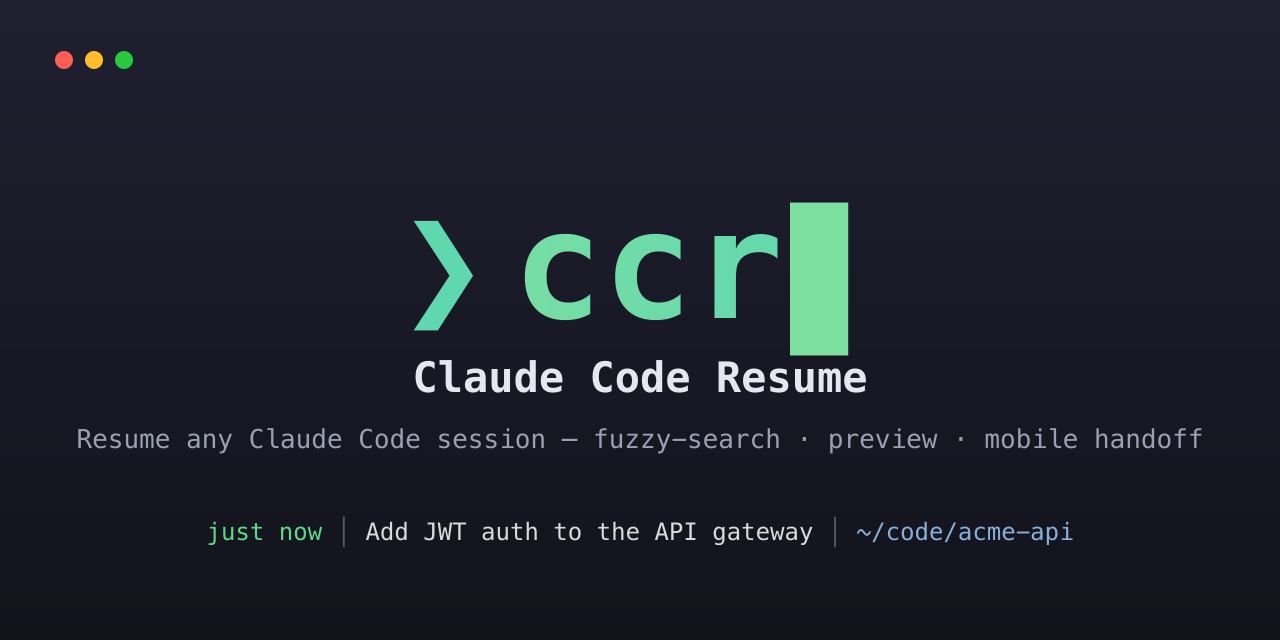
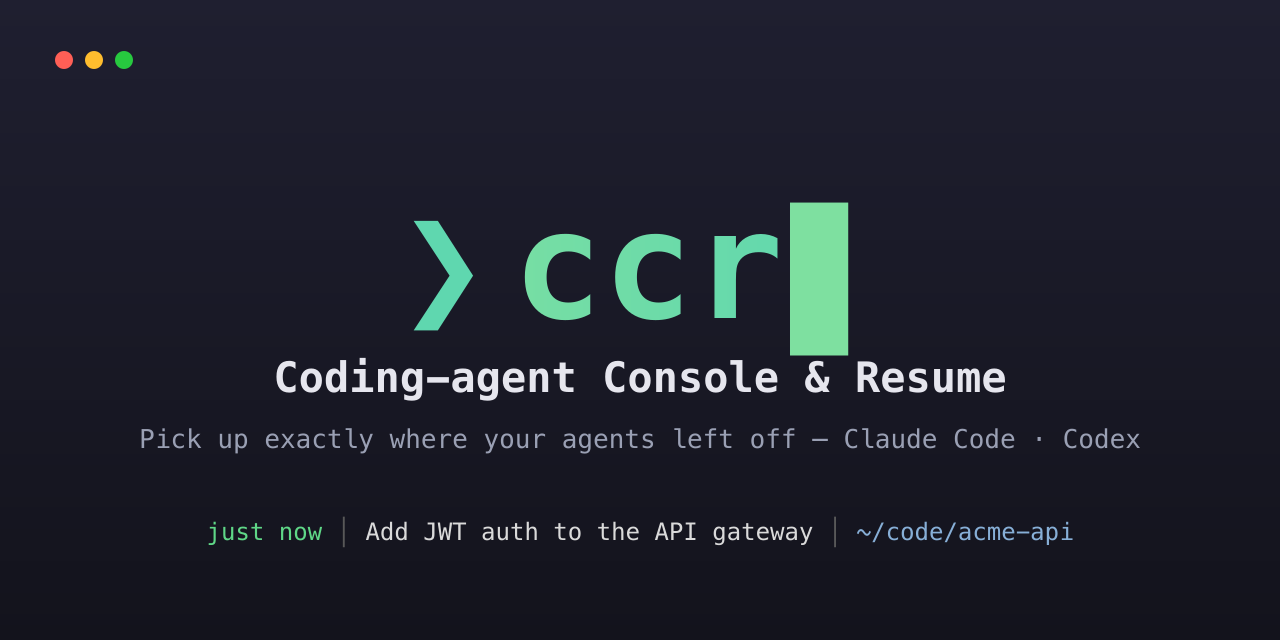
docs: rebrand as CCR — Coding-agent Console & Resume
New tagline "Pick up exactly where your agents left off.", a Why CCR
section (workspace view, session retention, one list for every surface,
session output, theme picker) in both READMEs, refreshed banner and social
preview, and links pointing at the renamed repo coding-agent-console.

Changed region(s): [[0.0625, 0.6562, 0.9375, 0.7188], [0.2188, 0.5625, 0.7812, 0.625]]

diff --git a/README.md b/README.md
@@ -1,10 +1,12 @@
 <p align="center">
-  <img src="assets/banner.svg" width="860" alt="ccr / ccc — Claude Code Resume, with Codex">
+  <img src="assets/banner.svg" width="860" alt="CCR — Coding-agent Console & Resume, for Claude Code and Codex">
 </p>
 
+<h3 align="center">CCR — Coding-agent Console &amp; Resume</h3>
+
 <p align="center">
-  <code>ccr</code> — a fuzzy-search picker for resuming Claude Code sessions across every project.<br>
-  <code>ccc</code> — the same picker with your OpenAI Codex sessions in it too.
+  <b>Pick up exactly where your agents left off.</b><br>
+  <code>ccr</code> — your Claude Code sessions · <code>ccc</code> — Claude Code + Codex in one list
 </p>
 
 <p align="center">
@@ -13,15 +15,31 @@
 
 ---
 
-Browse **all your Claude Code sessions across every project** in a fuzzy-search
-menu, see a rich preview of each, then resume the one you want — `ccr` auto-`cd`s
-into the session's working directory and runs `claude --resume` for you. No more
-hunting for which folder a conversation lived in.
+CCR is a terminal console for your coding agents. Fuzzy-find any Claude Code or
+Codex session across every project, preview what it was doing and what it
+produced, then resume it — `ccr` cd's into the session's working directory and
+runs `claude --resume` (or `codex resume`) for you.
 
-Beyond the CLI's own sessions, it also lists **Claude Desktop (Cowork)**
-conversations and sessions Claude has already **cleaned up**, shows the **ports
-and watchers your agents left running**, and can resume with **mobile Remote
-Control**. Use **`ccc`** to get **Claude Code + Codex** in one list.
+## Why CCR
+
+- **⚙ See the whole workspace** — the dev servers, ports and watchers your
+  agents started sit right above the session list, matched to their projects,
+  with CPU, memory and a clickable `localhost` link. Resume with the full
+  picture in view.
+- **🛟 Keep every session within reach** — CCR tells you how long Claude keeps
+  transcripts and how to keep them longer, and `Ctrl-X` brings back the
+  sessions already cleaned up, with their first prompt.
+- **🗂 One list, every surface** — Claude Code, Codex and Claude Desktop
+  (Cowork) sessions together, each tagged by tool. Desktop conversations
+  continue in the CLI as a fork.
+- **✦ Know what each session produced** — artifacts and the files each session
+  wrote appear as blocks in the preview; `Ctrl-L` opens them.
+- **🎨 Make it yours** — `ccr --themes` opens a live theme picker: browse
+  Tokyo Night, Catppuccin, Kanagawa, Gruvbox and Classic on a real CCR screen,
+  in 24-bit color, and save with `Enter`.
+
+All of it is one Bash script plus fzf: no daemon, no build step, and
+`ccr --update` keeps it current.
 
 <p align="center">
   <img src="assets/demo.gif" width="820" alt="ccr in action — fuzzy-search, preview, and resume">
@@ -140,8 +158,8 @@ Control**. Use **`ccc`** to get **Claude Code + Codex** in one list.
 ## Install
 
 ```sh
-git clone https://github.com/kylinfish/claude-code-resume.git
-cd claude-code-resume
+git clone https://github.com/kylinfish/coding-agent-console.git
+cd coding-agent-console
 ./install.sh            # symlinks bin/ccr and bin/ccc into ~/.local/bin
 ./install.sh --tip      # also add a one-line startup hint to your shell rc
 ```
@@ -156,7 +174,8 @@ Or just drop `bin/ccr` anywhere on your `PATH` (and a `ccc` symlink to it if you
 ccr --update             # 0.6.1+: git pull the clone and show what changed
 ```
 
-On 0.6.0 or older, update once by hand — `--update` is available from then on:
+On 0.6.0 or older, update once by hand from your clone (cloned before the rename, it is still
+called `claude-code-resume`) — `--update` is available from then on:
 
 ```sh
 cd claude-code-resume && git pull

diff --git a/README.zh-TW.md b/README.zh-TW.md
@@ -1,10 +1,12 @@
 <p align="center">
-  <img src="assets/banner.svg" width="860" alt="ccr / ccc：Claude Code Resume，支援 Codex">
+  <img src="assets/banner.svg" width="860" alt="CCR — Coding-agent Console & Resume，支援 Claude Code 與 Codex">
 </p>
 
+<h3 align="center">CCR — Coding-agent Console &amp; Resume</h3>
+
 <p align="center">
-  <code>ccr</code>：跨專案搜尋並 resume Claude Code session 的模糊搜尋選單。<br>
-  <code>ccc</code>：同一個選單，再加上 OpenAI Codex 的 session。
+  <b>從 agent 停下的地方，無縫接續。</b><br>
+  <code>ccr</code>：你的 Claude Code session · <code>ccc</code>：Claude Code + Codex 同一個列表
 </p>
 
 <p align="center">
@@ -13,13 +15,25 @@
 
 ---
 
-`ccr` 讓你在一個模糊搜尋選單裡瀏覽**所有專案、所有 Claude Code 歷史對話**，
-看到每個 session 的摘要預覽，選定後自動 `cd` 到該專案目錄並 `claude --resume`，
-不必再手動記哪段對話在哪個資料夾。
+CCR 是給 coding agent 用的終端機控制台。跨所有專案模糊搜尋 Claude Code 或 Codex 的
+session，預覽它當時在做什麼、產出了什麼，選定後自動 `cd` 到專案目錄並
+`claude --resume`（或 `codex resume`）。
 
-除了 CLI 本身的 session，也會列出 **Claude Desktop（Cowork）** 的對話與已被 Claude
-**清理**的 session，顯示 **agent 留在背景的 port 與 watcher**，並可一鍵開啟**手機遠端控制**。
-用 **`ccc`** 可以把 **Claude Code + Codex** 放在同一個列表。
+## 為什麼用 CCR
+
+- **⚙ 一眼看到整個工作現場**：agent 啟動的 dev server、port 與 watcher 直接列在
+  session 列表上方，對應到所屬專案，附 CPU、記憶體與可點的 `localhost` 連結，
+  resume 時全局盡在眼前。
+- **🛟 每個 session 都找得到**：CCR 會告訴你 Claude 保留對話紀錄多久、怎麼延長，
+  `Ctrl-X` 還能列出已清理的 session 與它的第一句 prompt。
+- **🗂 一個列表，涵蓋所有來源**：Claude Code、Codex 與 Claude Desktop（Cowork）的
+  session 放在一起，各自標上工具；Desktop 對話可以分支到 CLI 繼續。
+- **✦ 清楚每個 session 的產出**：artifact 與 session 寫過的檔案以區塊呈現在預覽中，
+  `Ctrl-L` 直接開啟。
+- **🎨 打造你的風格**：`ccr --themes` 開啟即時主題選擇器，在真實的 CCR 畫面上瀏覽
+  Tokyo Night、Catppuccin、Kanagawa、Gruvbox 與 Classic，24-bit 全彩，按 `Enter` 儲存。
+
+全部只是一個 Bash 腳本加上 fzf：不需要常駐程式、不用編譯，`ccr --update` 一鍵更新。
 
 <p align="center">
   <img src="assets/demo-zh.gif" width="820" alt="ccr 操作示範：模糊搜尋、預覽、resume">
@@ -140,8 +154,8 @@
 ## 安裝
 
 ```sh
-git clone https://github.com/kylinfish/claude-code-resume.git
-cd claude-code-resume
+git clone https://github.com/kylinfish/coding-agent-console.git
+cd coding-agent-console
 ./install.sh          # 連結 bin/ccr 與 bin/ccc 到 ~/.local/bin
 ./install.sh --tip    # 另外在 shell 啟動時加一行提示
 ```
@@ -156,7 +170,8 @@ cd claude-code-resume
 ccr --update             # 0.6.1 起：自動 git pull 並列出新版內容
 ```
 
-如果還是 0.6.0 或更舊的版本，先手動更新一次，之後就能用 `--update`：
+如果還是 0.6.0 或更舊的版本，先在 clone 目錄手動更新一次（改名前 clone 的目錄仍叫
+`claude-code-resume`），之後就能用 `--update`：
 
 ```sh
 cd claude-code-resume && git pull

diff --git a/CHANGELOG.md b/CHANGELOG.md
@@ -81,11 +81,11 @@ Initial release.
 - Scan-path resolution: `CCR_PROJECTS_DIR` → `$CLAUDE_CONFIG_DIR/projects` → `~/.claude/projects`.
 - Installer (`install.sh`, with optional `--tip` shell hint), SVG banner + logo, and a bilingual README.
 
-[Unreleased]: https://github.com/kylinfish/claude-code-resume/compare/v0.6.1...HEAD
-[0.6.1]: https://github.com/kylinfish/claude-code-resume/compare/v0.6.0...v0.6.1
-[0.6.0]: https://github.com/kylinfish/claude-code-resume/compare/v0.5.0...v0.6.0
-[0.5.0]: https://github.com/kylinfish/claude-code-resume/compare/v0.4.0...v0.5.0
-[0.4.0]: https://github.com/kylinfish/claude-code-resume/compare/v0.3.0...v0.4.0
-[0.3.0]: https://github.com/kylinfish/claude-code-resume/compare/v0.2.0...v0.3.0
-[0.2.0]: https://github.com/kylinfish/claude-code-resume/compare/v0.1.0...v0.2.0
-[0.1.0]: https://github.com/kylinfish/claude-code-resume/releases/tag/v0.1.0
+[Unreleased]: https://github.com/kylinfish/coding-agent-console/compare/v0.6.1...HEAD
+[0.6.1]: https://github.com/kylinfish/coding-agent-console/compare/v0.6.0...v0.6.1
+[0.6.0]: https://github.com/kylinfish/coding-agent-console/compare/v0.5.0...v0.6.0
+[0.5.0]: https://github.com/kylinfish/coding-agent-console/compare/v0.4.0...v0.5.0
+[0.4.0]: https://github.com/kylinfish/coding-agent-console/compare/v0.3.0...v0.4.0
+[0.3.0]: https://github.com/kylinfish/coding-agent-console/compare/v0.2.0...v0.3.0
+[0.2.0]: https://github.com/kylinfish/coding-agent-console/compare/v0.1.0...v0.2.0
+[0.1.0]: https://github.com/kylinfish/coding-agent-console/releases/tag/v0.1.0
